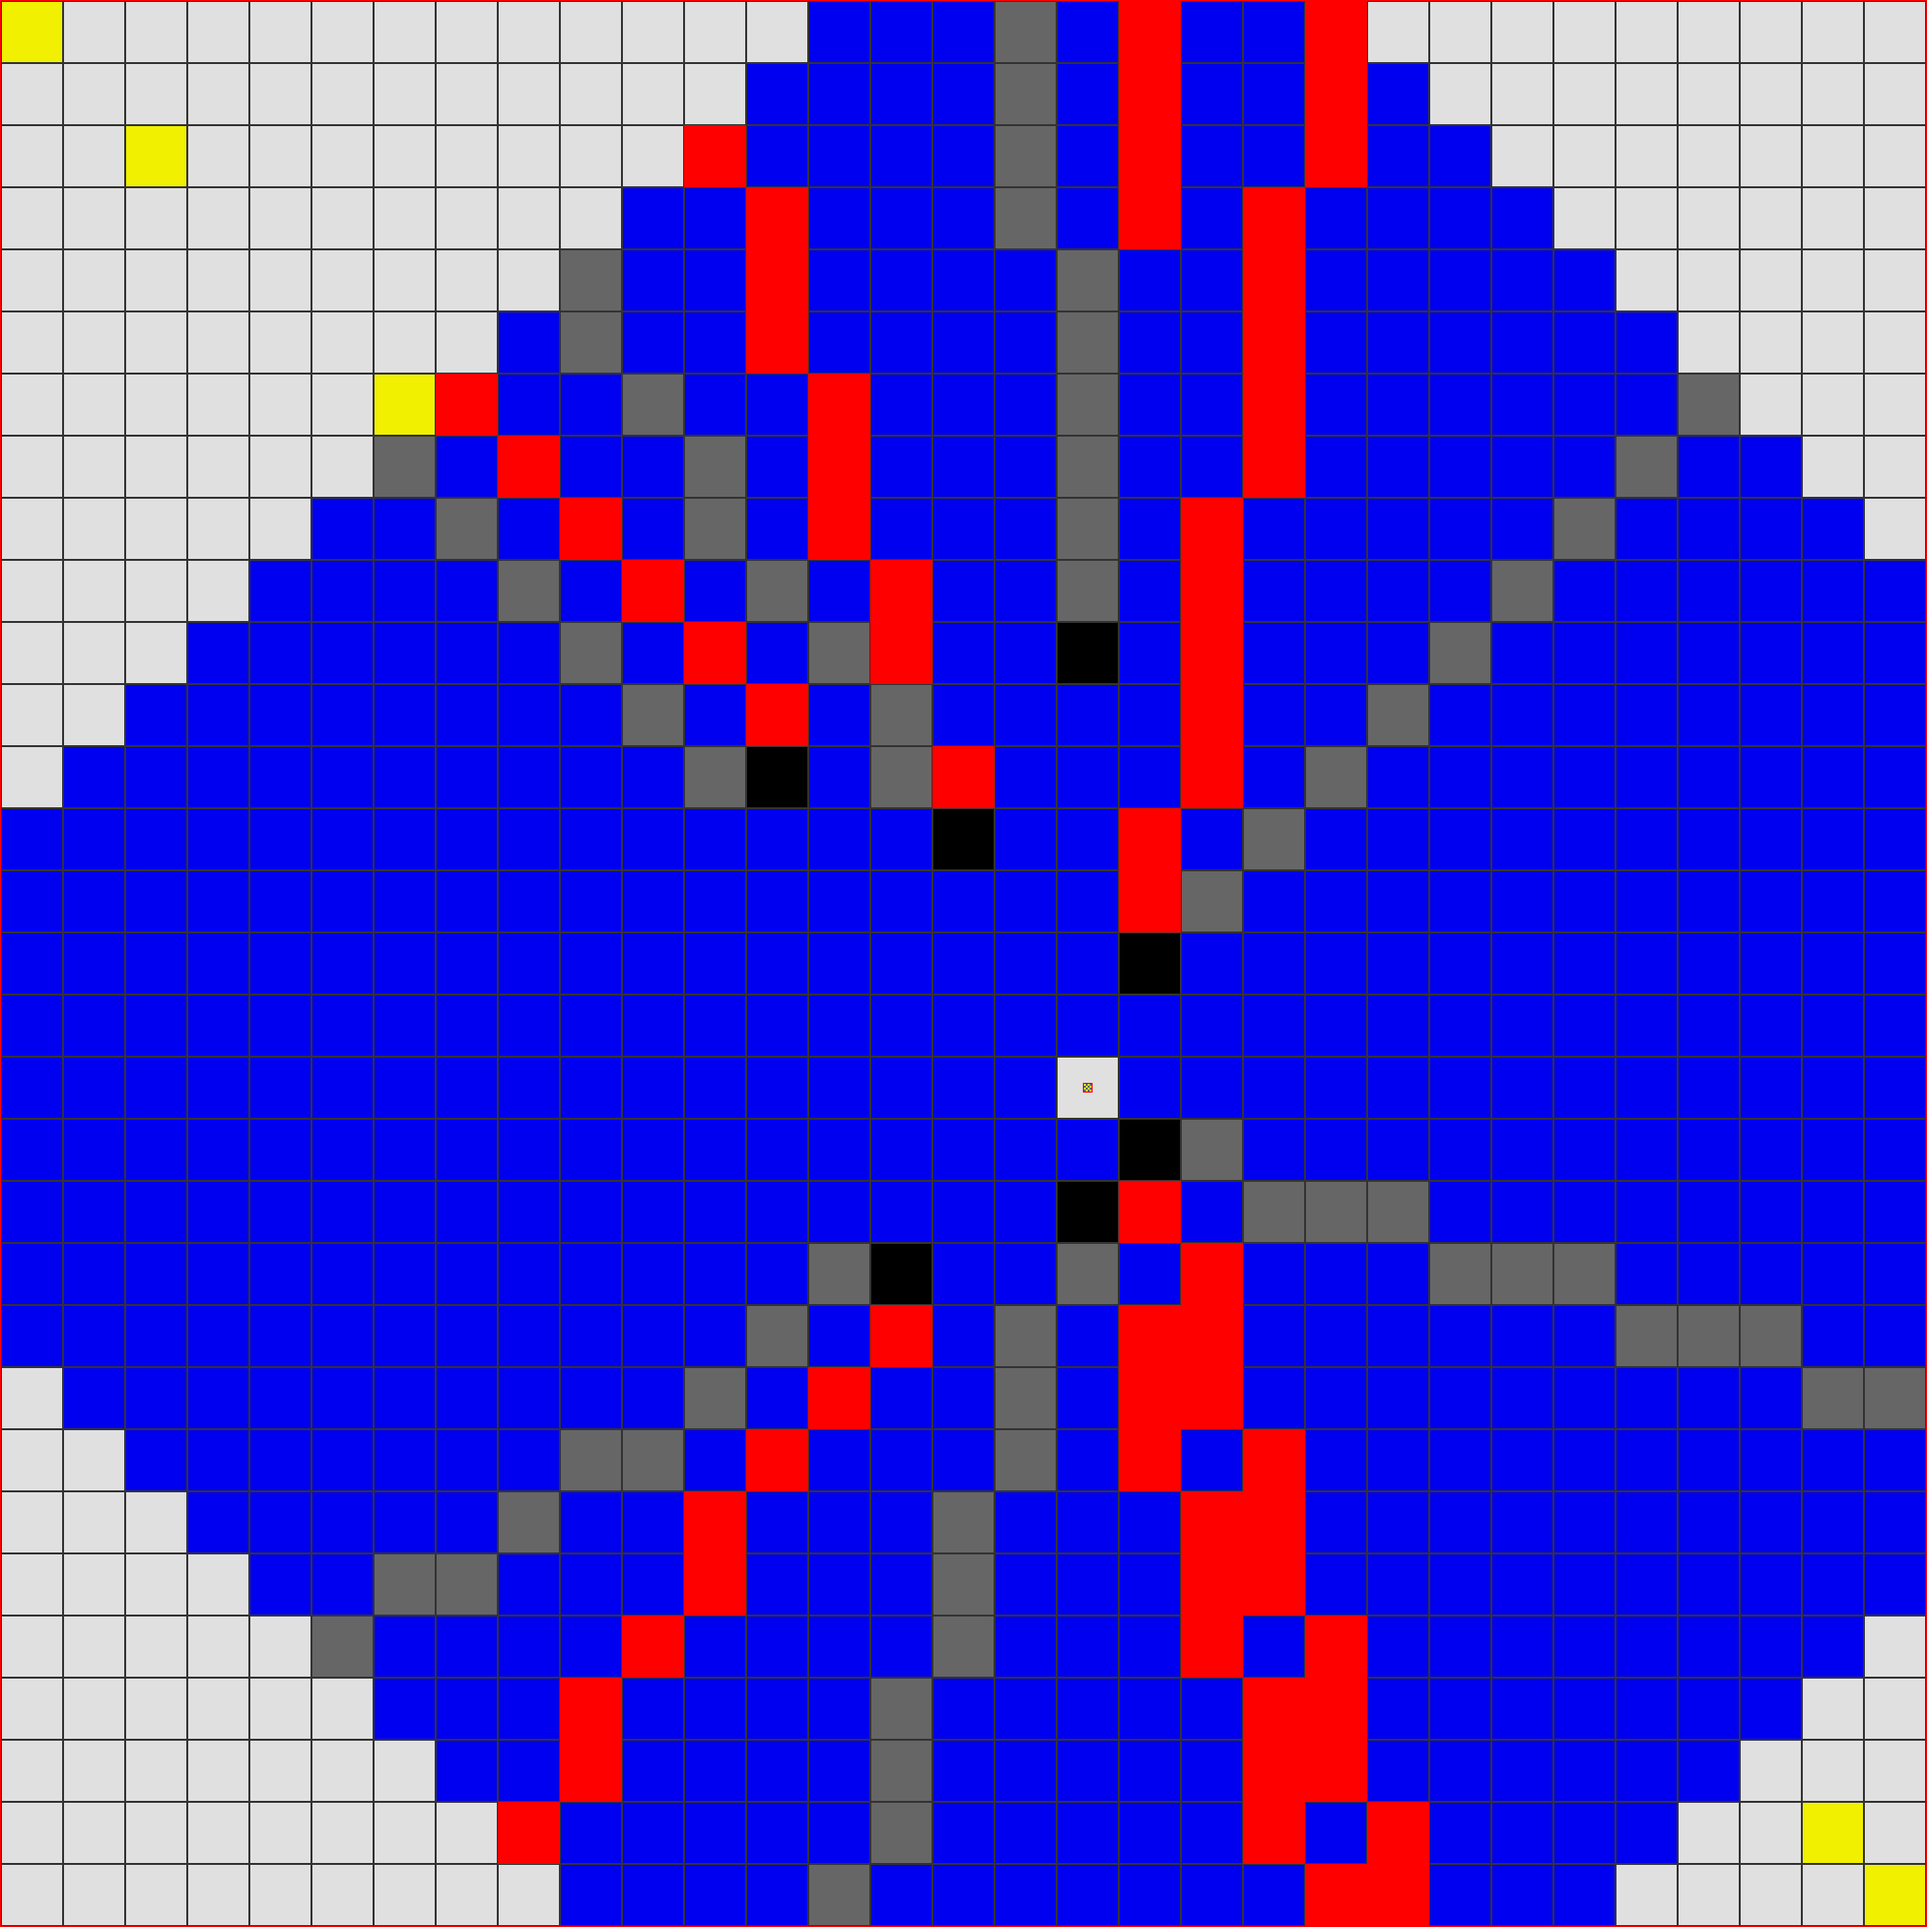
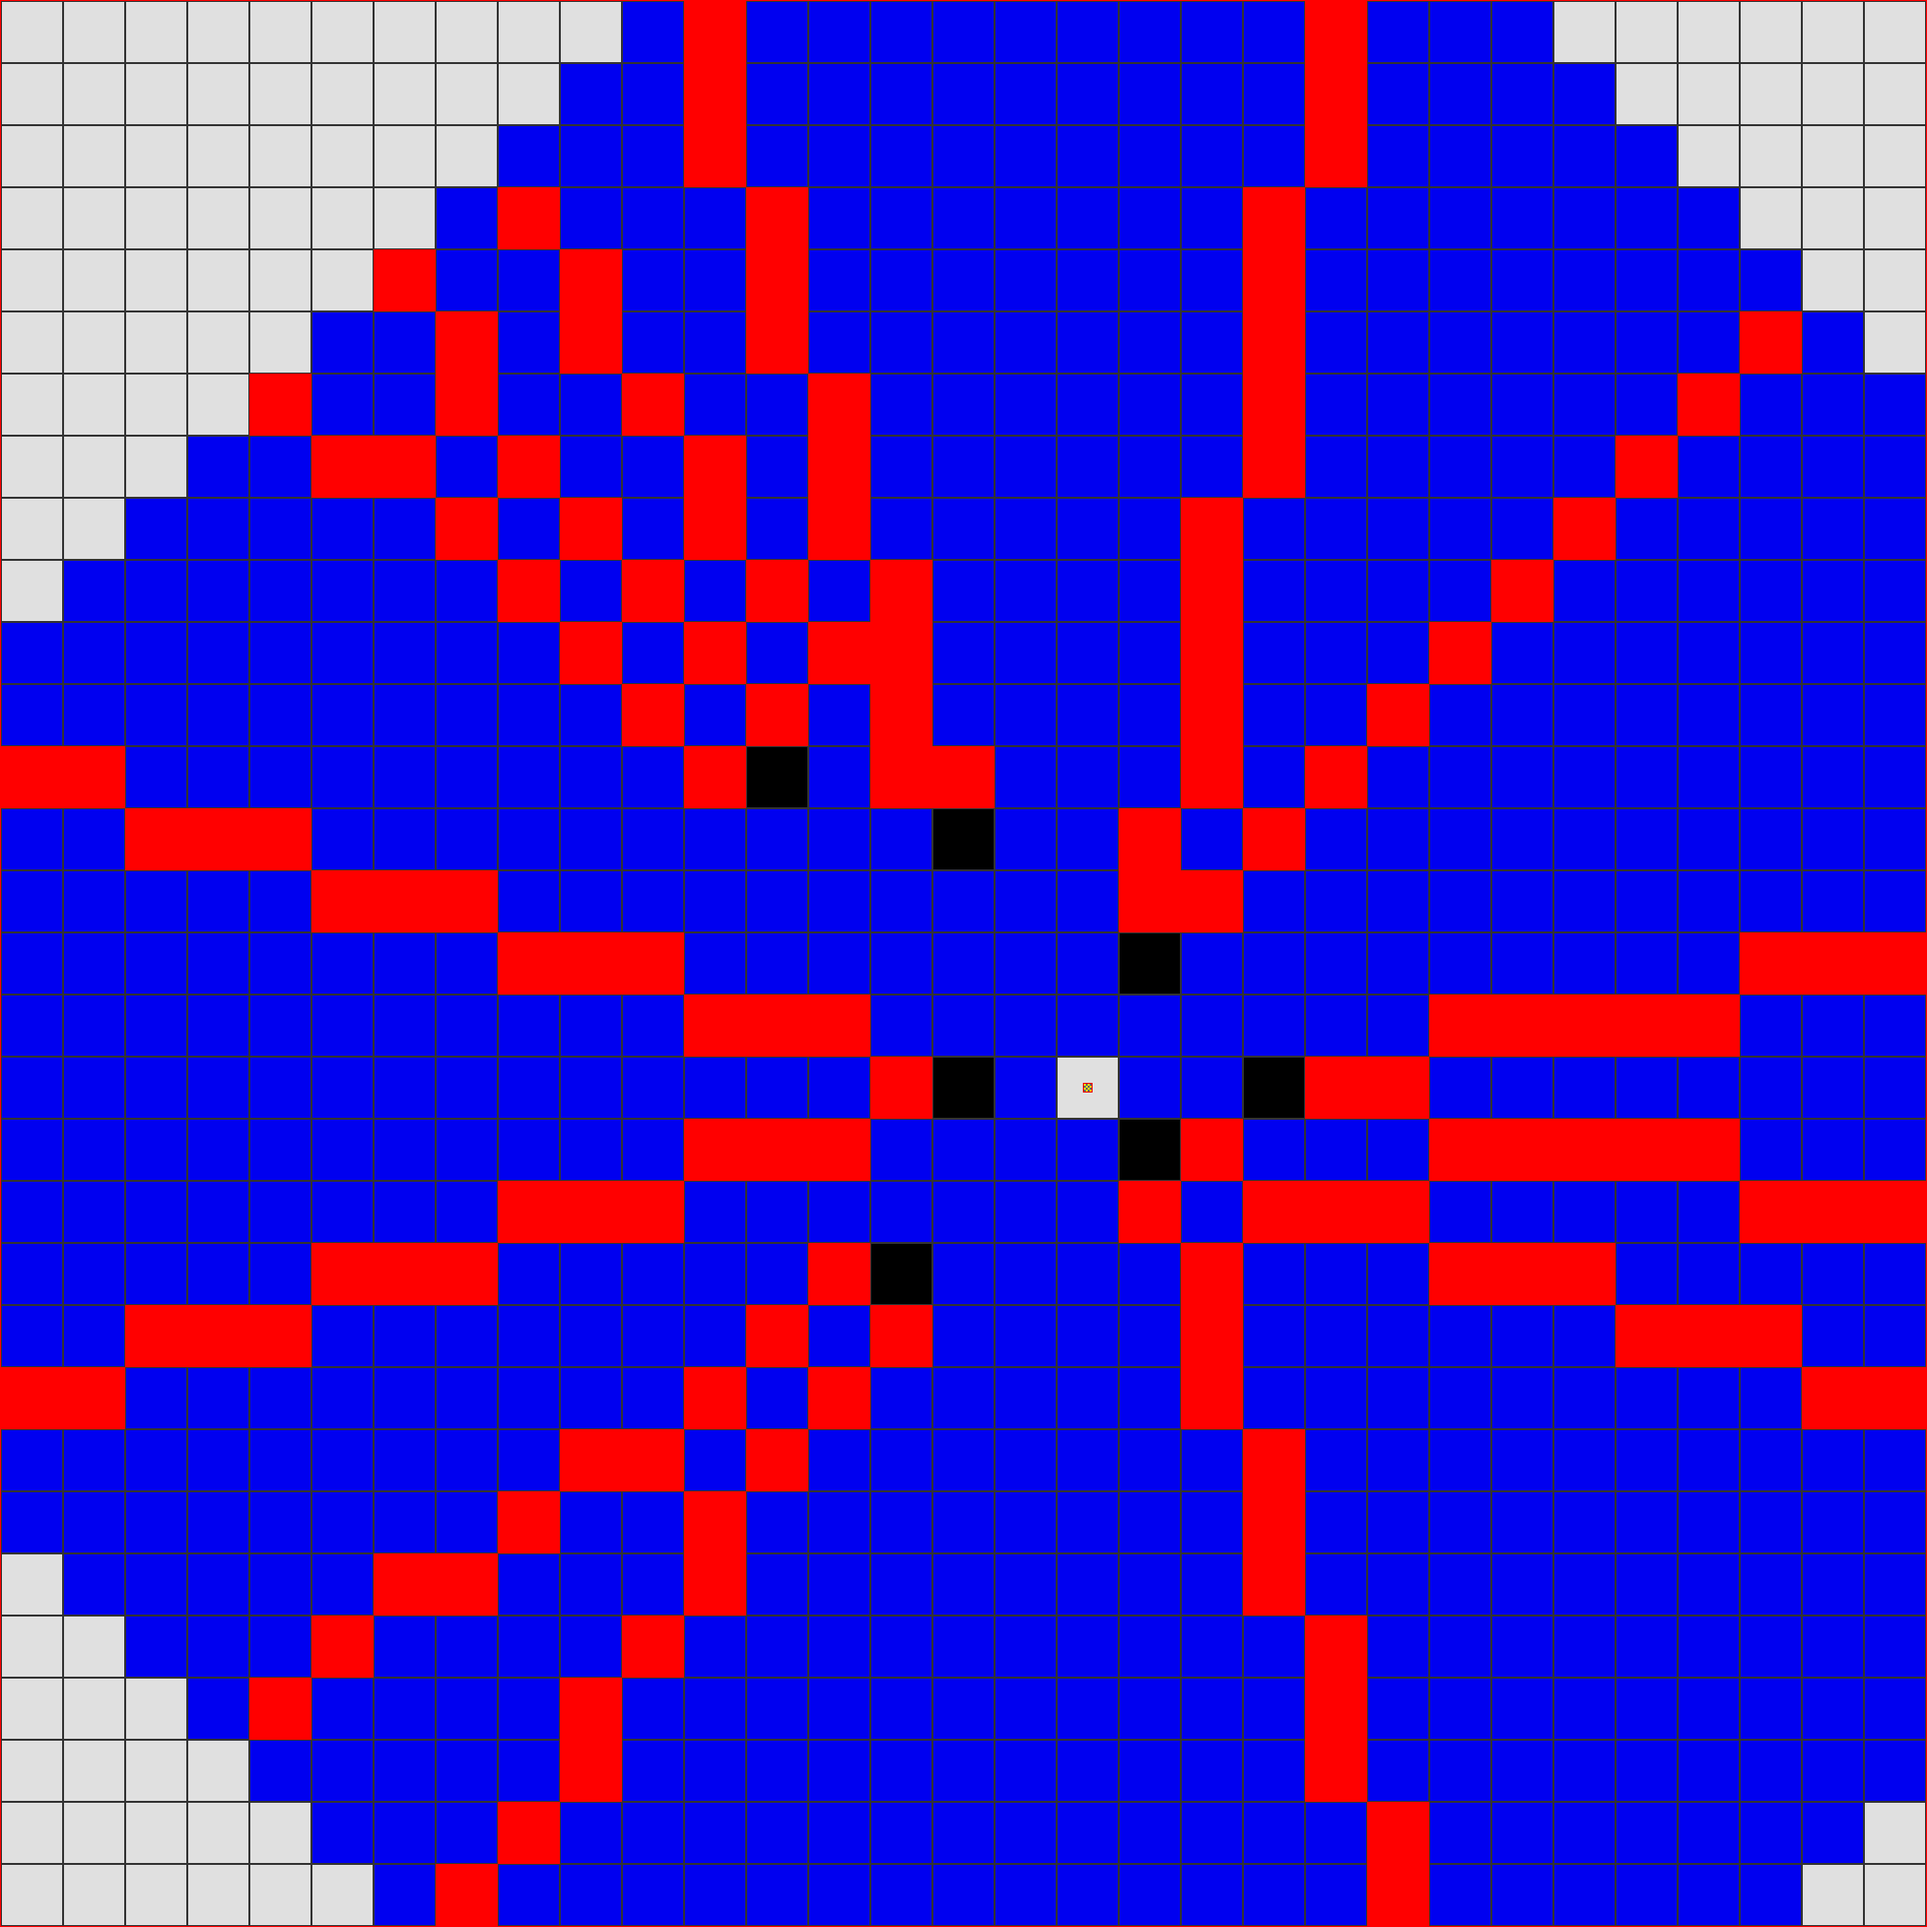
(1,4) obstacle give wrong border. Fill is getting better

diff --git a/fov.py b/fov.py
@@ -52,7 +52,7 @@ def visualise(map, vision_map):
                 try :
                     if vision_map[(i,j)]==0:
                         screen.blit(visible, (x,y))
-                    if vision_map[(i,j)]==2:
+                    if vision_map[(i,j)]==-1:
                         screen.blit(not_visible, (x,y))
                     if vision_map[(i,j)]==5:
                         screen.blit(yellow, (x,y))
@@ -102,22 +102,23 @@ def get_vision_map(map, pos, PO):
         if obstacle==pos:
             continue # obstacle sur point de départ, on ignore (on pourrait aussi dire 0 vision)
         dX=obstacle[0]-pos[0]
+        dXObstacle=dX
         dY=obstacle[1]-pos[1]
+        dYObstacle=dY
         dXa = abs(dX)
         dYa = abs(dY)
-        print("seq(%s,%s)" % (dXa,dYa))
+        print("(%s,%s)" % (dXa,dYa), end = " ")
         seqs_bord_obstacle_haut = seq(abs(2*(dXa-1) +1), 2*(dYa-(dXa==0)) +1)
+        print(" -> h seq(%s,%s)" % (abs(2*(dXa-1) +1), 2*(dYa-(dXa==0)) +1), end = " ")
         seqs_bord_obstacle_bas = seq(2*(dXa-(dYa==0)) +1, abs(2*(dYa-1)+1))
-        # seqs_bord_obstacle_haut = seq(dXa+((dXa+1)%2) + 2*(dXa>=dYa and dXa%2==1), 2*(dYa-(dXa==0)) +1)
-        # print("  haut : seq(%s,%s)"% (dXa+((dXa+1)%2) + 2*(dXa>=dYa and dXa%2==1), 2*(dYa-(dXa==0)) +1))
-        # seqs_bord_obstacle_bas = seq(2*(dXa-(dYa==0)) +1, dYa+((dYa+1)%2) + 2*(dYa>=dXa and dYa%2==1))
-        # print("  bas : seq(%s,%s)"% (2*(dXa-(dYa==0)) +1, dYa+((dYa+1)%2) + 2*(dYa>=dXa and dYa%2==1)))
-        if dYa==0:
-            seqs_bord_obstacle_haut = seqs_bord_obstacle_bas
-            print("  [correction] haut : seq(%s,%s)"% (2*(dXa-(dYa==0)) +1, dYa+((dYa+1)%2)))
-        elif dXa==0 :
-            seqs_bord_obstacle_bas = seqs_bord_obstacle_haut
-            print("  [correction] bas : seq(%s,%s)"% (dXa+((dXa+1)%2), 2*(dYa-(dXa==0)) +1))
+        print("& b seq(%s,%s)" % (2*(dXa-(dYa==0)) +1, abs(2*(dYa-1)+1)))
+        if False :
+            if dYa==0:
+                seqs_bord_obstacle_haut = seqs_bord_obstacle_bas
+                print("  [correction] haut : seq(%s,%s)"% (2*(dXa-(dYa==0)) +1, dYa+((dYa+1)%2)))
+            elif dXa==0 :
+                seqs_bord_obstacle_bas = seqs_bord_obstacle_haut
+                print("  [correction] bas : seq(%s,%s)"% (dXa+((dXa+1)%2), 2*(dYa-(dXa==0)) +1))
 
         # premier bord
         x=obstacle[0]
@@ -131,14 +132,15 @@ def get_vision_map(map, pos, PO):
         while dist < PO:
             x += signX*seqs_bord_obstacle_bas[0][a%l]
             y += signY*seqs_bord_obstacle_bas[1][a%l]
-            if x<0 or x>=len(map) or y<0 or y>=len(map[x]):
-                x -= signX*seqs_bord_obstacle_bas[0][a%l]
-                y -= signY*seqs_bord_obstacle_bas[1][a%l]
-                break
+            if False :
+                if x<0 or x>=len(map) or y<0 or y>=len(map[x]):
+                    x -= signX*seqs_bord_obstacle_bas[0][a%l]
+                    y -= signY*seqs_bord_obstacle_bas[1][a%l]
+                    break
             dist += seqs_bord_obstacle_bas[0][a%l] + seqs_bord_obstacle_bas[1][a%l]
             a+=1
             border_1.append((x,y))
-            dic[(x,y)] = 4
+            dic[(x,y)] = -3
         corner_1 = (x,y)
 
         # deuxième bord
@@ -153,38 +155,60 @@ def get_vision_map(map, pos, PO):
         while dist < PO:
             x += signX*seqs_bord_obstacle_haut[0][a%l]
             y += signY*seqs_bord_obstacle_haut[1][a%l]
-            if x<0 or x>=len(map) or y<0 or y>=len(map[x]):
-                x -= signX*seqs_bord_obstacle_haut[0][a%l]
-                y -= signY*seqs_bord_obstacle_haut[1][a%l]
-                break
+            if False:
+                if x<0 or x>=len(map) or y<0 or y>=len(map[x]):
+                    x -= signX*seqs_bord_obstacle_haut[0][a%l]
+                    y -= signY*seqs_bord_obstacle_haut[1][a%l]
+                    break
+
             dist += seqs_bord_obstacle_haut[0][a%l] + seqs_bord_obstacle_haut[1][a%l]
             a+=1
-            border_2.append((x,y))
-            dic[(x,y)] = 2
+            if dist <= PO:
+                border_2.append((x,y))
+                dic[(x,y)] = -2
         corner_2 = (x,y)
 
         # prolongement des bords
-        print(corner_1, corner_2)
+        print(corner_1, corner_2, border_1, border_2)
         arc_limite_po=[]
         x,y = corner_1
         x2,y2 = corner_2
 
-        TO=1;a=0
-        while (x,y)!=corner_2 and a<TO:
+        TO=10;a=0
+        if False :
             print(x,y, end=" ")
             xlim = max(min(x,len(map)-1), 0)
             ylim = max(min(y,len(map[xlim])-1), 0)
             print("->",xlim,ylim)
-            dic[(xlim,xlim)]=5
-            # si dX non nul,
-            # corner_2 va vers l'axe y=y_pos
+            dic[(xlim,ylim)]=5
+        while (abs(x-x2)+abs(y-y2))>2 and a<TO:
             dX=x-pos[0]
             dy=y-pos[1]
-            x+=-sign(dX)*(-1 if dY==0 else 1)
-            y+=(sign(dX)*sign(dY))*(-1 if dX==0 else 1)
+            x+=-sign(dX)*(-1 if dXObstacle==0 else 1)
+            y+=sign(dY)*(-1 if dYObstacle==0 else 1)
+            print(x,y)
             a +=1
-
-
+            arc_limite_po.append((x,y))
+        print("Filling up")
+        bord_sup_complet = arc_limite_po + ([] if dYObstacle==0 else border_1)
+        print(arc_limite_po, bord_sup_complet)
+        for c in bord_sup_complet:
+            # from red to grey is towards x=x_pos (else ignore)
+            x,y=c
+            dist=abs(pos[0]-x)+abs(pos[1]-y)
+            content = dic[(x,y)] if (dist<=PO and (x>=0 and x<len(map) and y>=0 and y<len(map))) else 0
+            TO=25; a=0
+            while content!=-2 and (x,y)!=obstacle and a<TO: # count obstacle as part of opposite border
+                if dist<=PO and (x>=0 and x<len(map) and y>=0 and y<len(map)):
+                    # print("+1 :(%s,%s)" % (x,y),dic[(x,y)]==content,end="  ")
+                    #dic[(x,y)]=-1
+                    True
+                x += sign(obstacle[0]-c[0])
+                dist=abs(pos[0]-x)+abs(pos[1]-y)
+                content = dic[(x,y)] if (dist<=PO and (x>0 and x<len(map) and y>0 and y<len(map))) else 0
+                a=a+1
+            # print()
+            #dic[c]=5
 
     return dic
 
@@ -209,14 +233,15 @@ map_data[12][12]=1
 map_data[13][15]=1
 map_data[18][18]=1
 map_data[20][14]=1
-map_data[10][17]=1
-map_data[19][17]=1
-#map_data[17][15]=1
+#map_data[10][17]=1
+#map_data[20][17]=1
+map_data[17][15]=1
+map_data[17][20]=1
 POS_PLAYER = (17,17)
 # {(5,5):0, (4,5):0, (3,5):0, (2,5):0, (1,5):0, (3,3):2}
-visualise(map_data, get_vision_map(map_data, POS_PLAYER, 21))
+visualise(map_data, get_vision_map(map_data, POS_PLAYER, 24))
 
-
+print()
 
 
 
